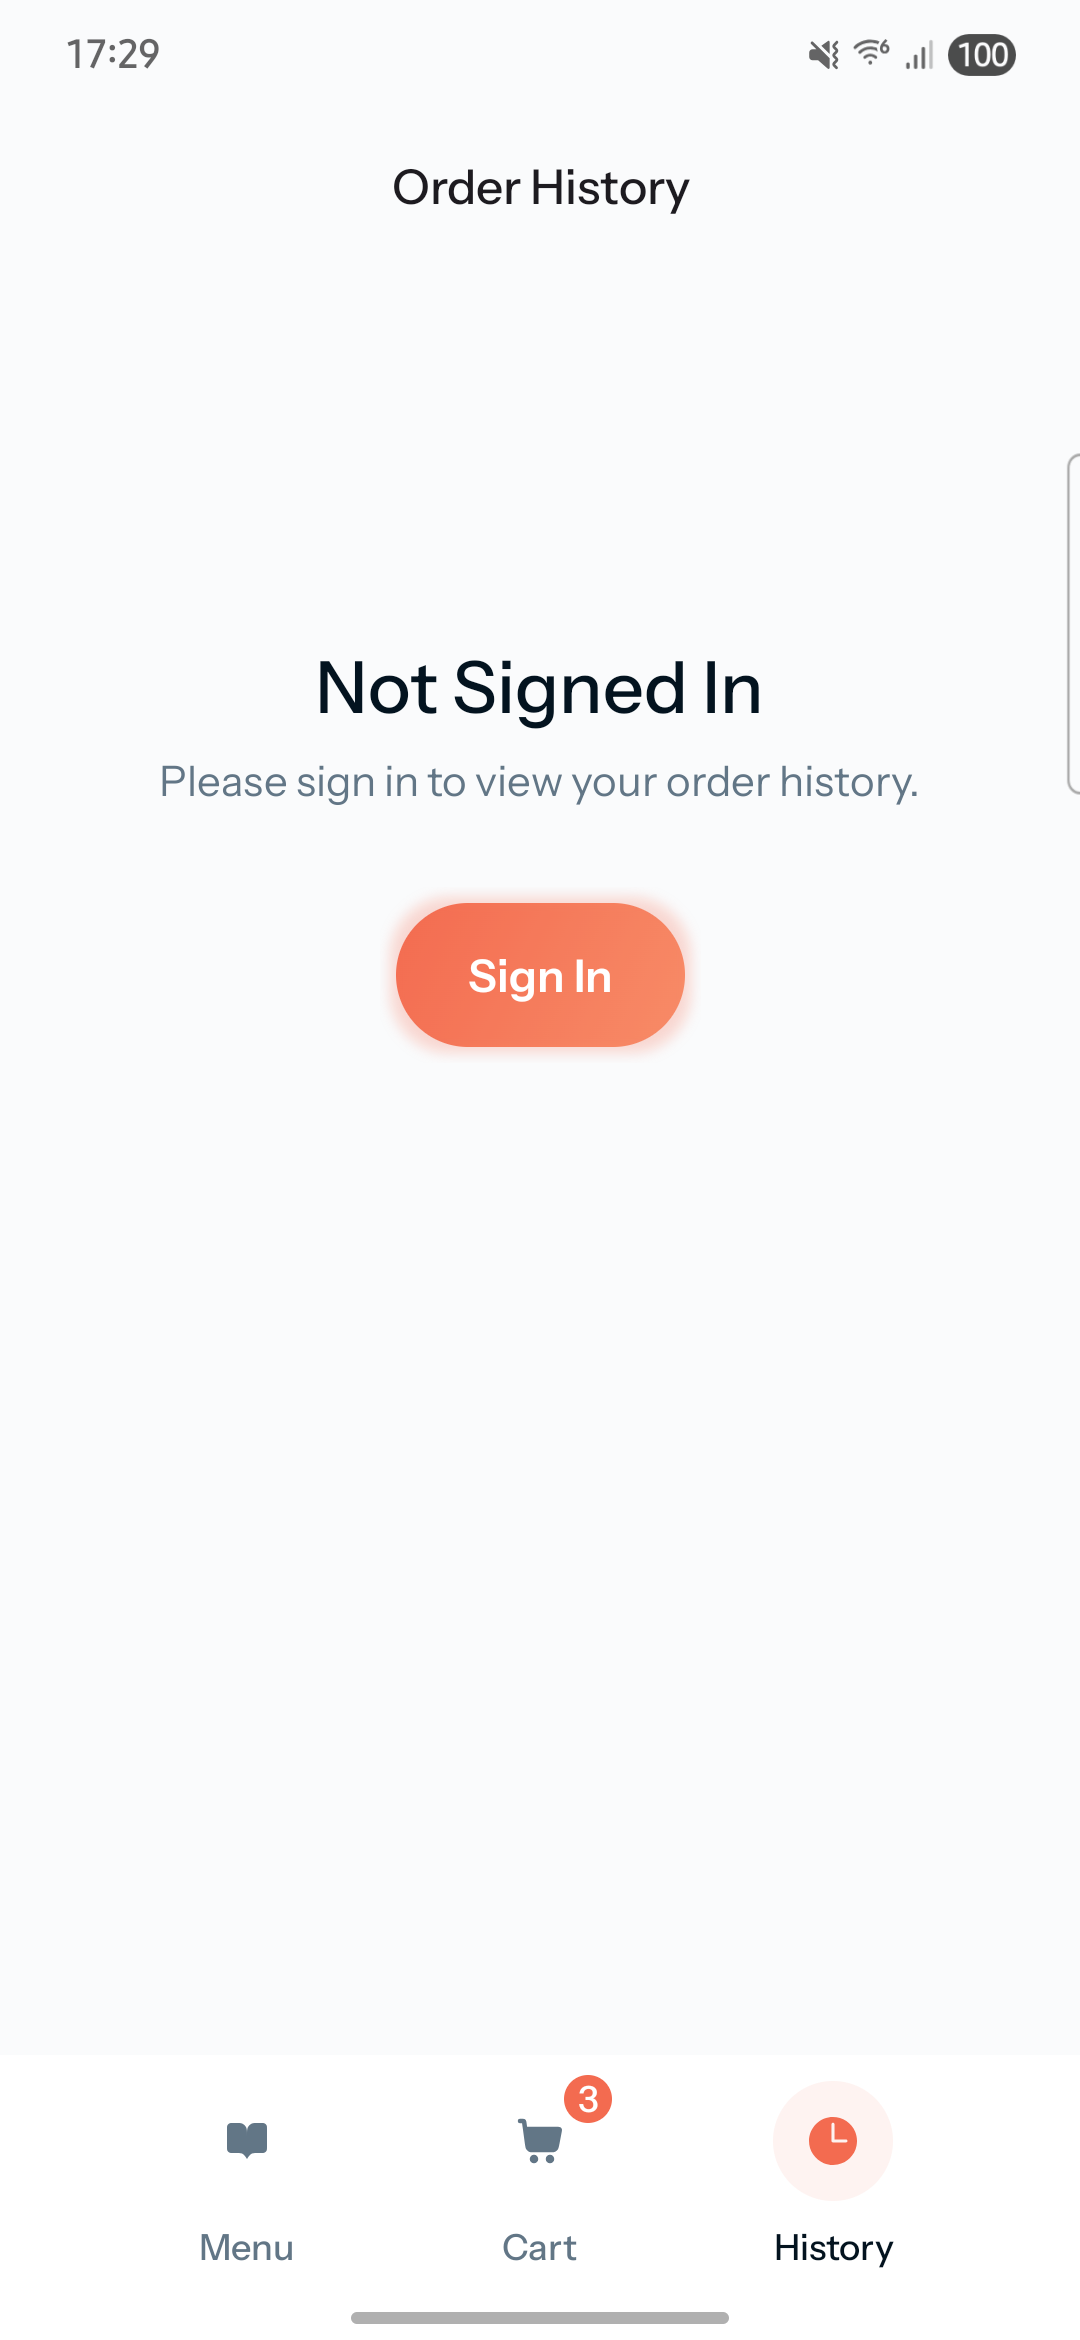
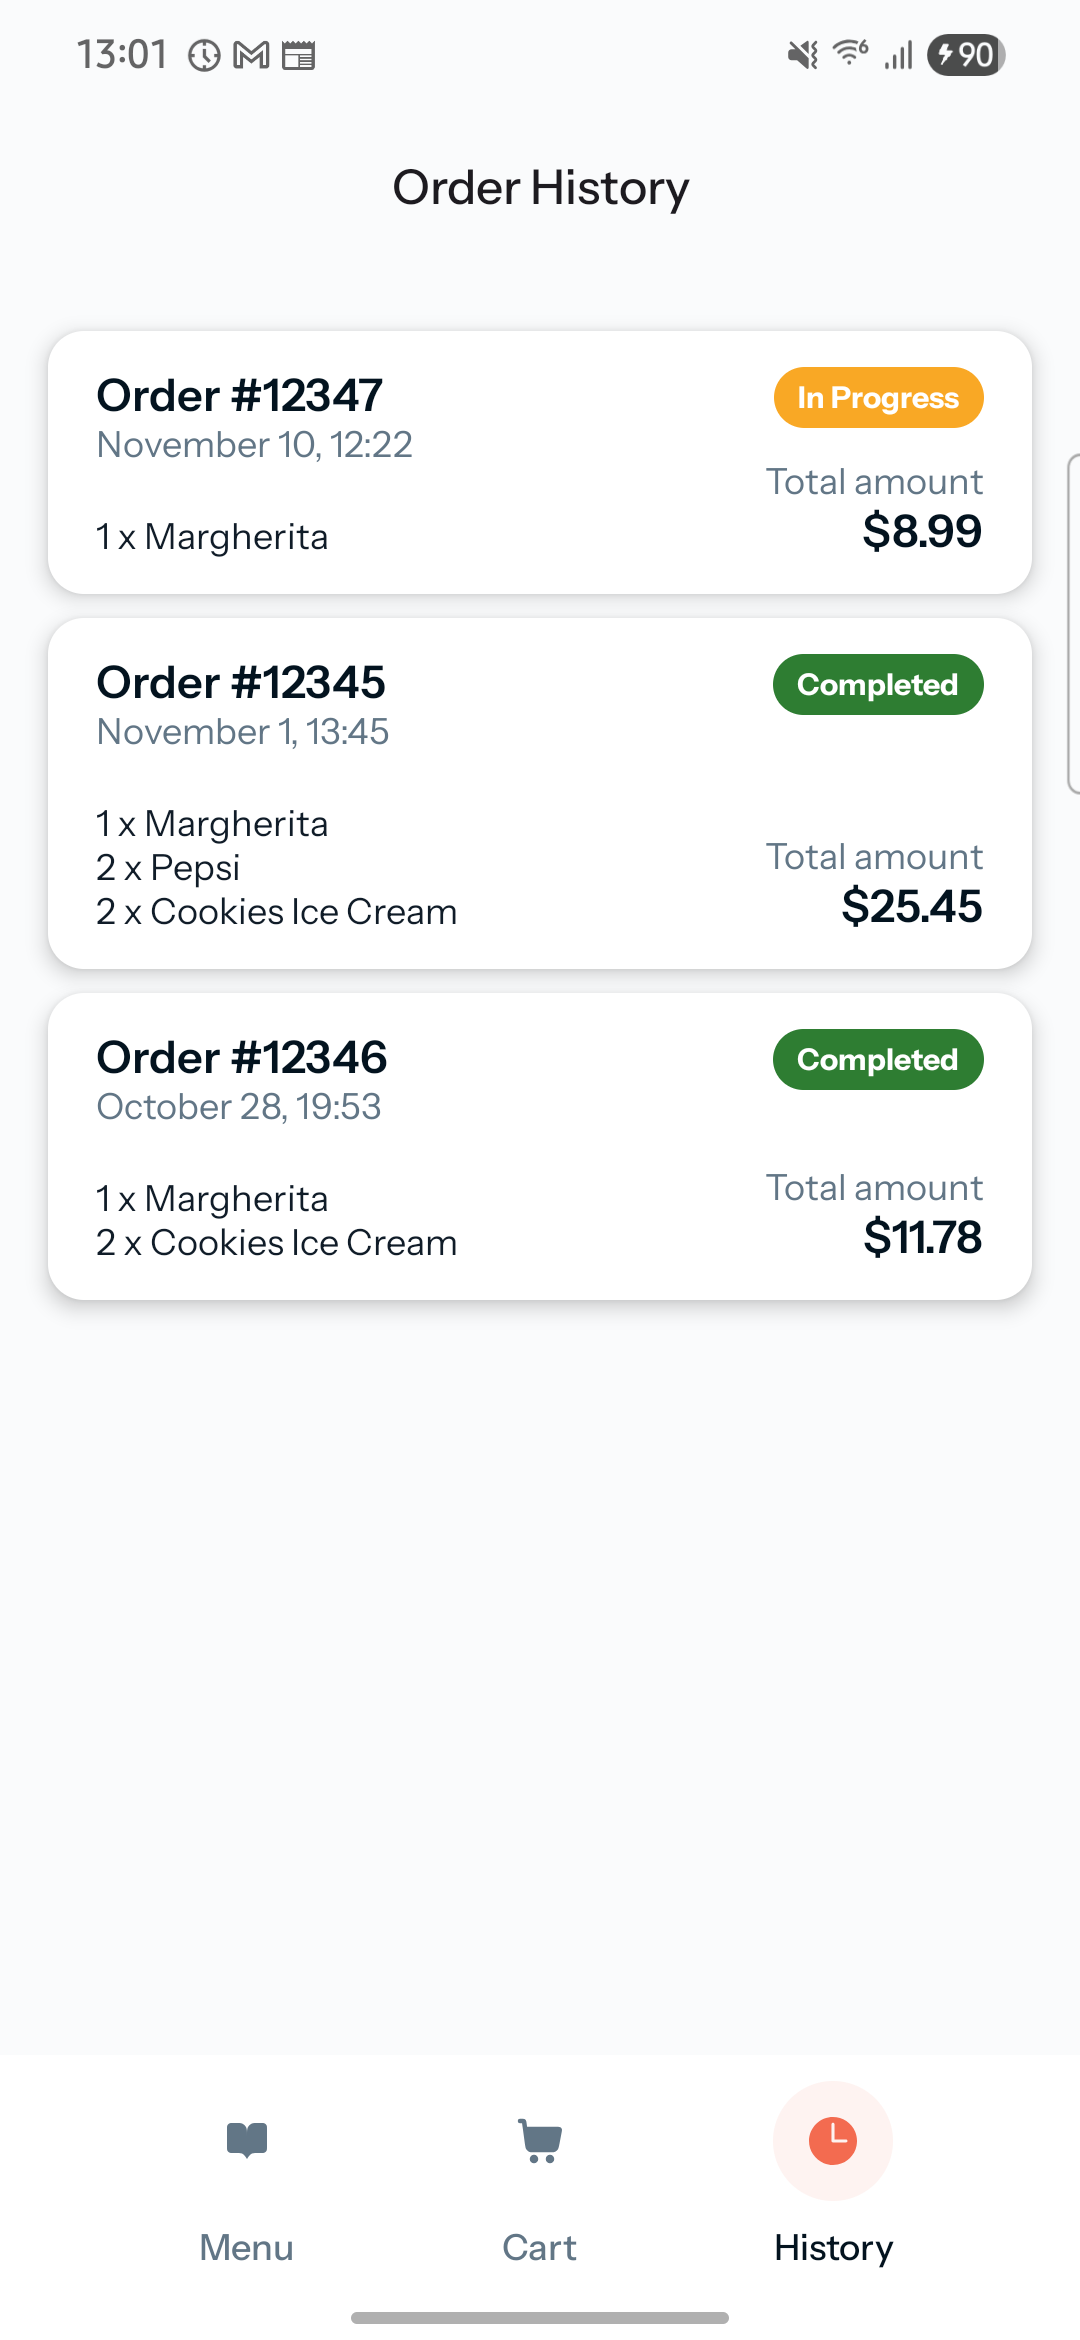
[M3-010] Update readme

diff --git a/Readme.md b/Readme.md
@@ -1,26 +1,30 @@
 <img src="assets/lazy_pizza_cover.png" style="width: 100%; height: auto;"/>
 
-**LazyPizza** is an online pizza delivery app built for the Mobile Dev Campus by [Phillip Lackner](https://pl-coding.com/campus) as part of the monthly challenge. This app is made for fun and to improve skills in collaboration by three community members [@extractive-mana-pulse](https://github.com/extractive-mana-pulse), [@galahseno](https://github.com/galahseno) and [@icdominguez](https://github.com/icdominguez)
+**LazyPizza** is an online pizza delivery app built for the Mobile Dev Campus
+by [Phillip Lackner](https://pl-coding.com/campus) as part of the monthly challenge. This app is
+made for fun and to improve skills in collaboration by three community
+members [@extractive-mana-pulse](https://github.com/extractive-mana-pulse), [@galahseno](https://github.com/galahseno)
+and [@icdominguez](https://github.com/icdominguez)
 
 ## Project Status
 
-This project is divided in 4 different milestones that are launched every fortnight. Was started being developed at 1st October. We are currently working on Milestone 3.
+This project is divided in 4 different milestones that are launched every fortnight. Was started
+being developed at 1st October. We are currently working on Milestone 3.
 
 ### 🚨 Latest Features ###
 
-- **Cart**
-  -  We implemented the model in firebase to store the cart items through out the app. Because of we don't have users logged in we stored the cart id in the device using data store. The model is the following
-  <img src="assets/cart_model.png" style="width: 100%; height: auto;"/>
-
-  - Navigation Rail to show the bottom navigation bar at the left in tablet devices.
-  - The user receives feedback confirming that the item is successfully added to the cart through a snackbar.
-  - The Cart icon in the bottom navigation bar instantly updates its badge to show the current number of items in the cart.
-  - If the user changes the product quantity on any product card (using the − 1 + selector), both the badge count and the cart data are updated dynamically.
-  - For pizzas, after tapping the Add to Cart button on the Product Details screen, the app returns the user to the main Menu screen so they can continue selecting other products.
-- **History**
-  -  For the moment shows a "Not Signed In" state. Sign in will be implemented in the  next milestone
-- **Consistent code styling with ktlint**
-  - We added ktlint support to ensure consistent code style throughout project. This helps keep the code clean and consistent among all team members.
+- **All Products Screen**
+  - Displays a new icon to login or logout.
+  - Log out only deletes cart from remote database (firebase).
+- **Login Screen**
+  - Displays a text field to type phone number.
+  - If number is correct, continue button is enabled and a telegram code will be sent to the phone
+    entered.
+  - Otp component displayed to enter the code previously sent.
+  - If the code is correct, the user will be logged in. If not, an error message will be displayed.
+  - Timer for request a new code after a minute.
+- **History Screen**
+  - Checks if user is logged in or not and if its logged displays a fake order list
 
 ## 🧑🏽💻 Technical implementation
 
@@ -33,7 +37,7 @@ This project is divided in 4 different milestones that are launched every fortni
 
 ## 🎥 Demo ##
 
-https://github.com/user-attachments/assets/8a7d2b22-e5b5-47b1-8c74-cb4713cd838b
+https://github.com/user-attachments/assets/17985058-5ab6-4322-8470-cbb9d9e5a368
 
 ## 📱 Screenshots ##
 
@@ -43,6 +47,15 @@ https://github.com/user-attachments/assets/8a7d2b22-e5b5-47b1-8c74-cb4713cd838b
 | Mobile                                                                           | Tablet                                                                            | 
 |----------------------------------------------------------------------------------|-----------------------------------------------------------------------------------|
 | <img src="assets/screenshots/all_products/all_products_mobile.png" width="600"/> | <img src="assets/screenshots/all_products/all_products_tablet.png" width="1200"/> |
+
+</details>
+
+<details>
+  <summary>Login</summary>
+
+| Mobile                                                             | Tablet                                                              | 
+|--------------------------------------------------------------------|---------------------------------------------------------------------|
+| <img src="assets/screenshots/login/login_mobile.png" width="600"/> | <img src="assets/screenshots/login/login_tablet.png" width="1200"/> |
 
 </details>
 
@@ -70,7 +83,21 @@ https://github.com/user-attachments/assets/8a7d2b22-e5b5-47b1-8c74-cb4713cd838b
 | Mobile                                                                  | Tablet                                                                   |
 |-------------------------------------------------------------------------|--------------------------------------------------------------------------|
 | <img src="assets/screenshots/history/history_mobile.png" width="600" /> | <img src="assets/screenshots/history/history_tablet.png" width="1200" /> |
+
 </details>
+
+## 🛠 Setup
+
+For the otp feature we used the telegram GATEWAY api. You can find documentation here: https://core.telegram.org/gateway.
+
+To test this project you need to add this two variables to your local.properties:
+
+```
+telegram_base_url="https://gatewayapi.telegram.org"
+telegram_api_token="your_token"
+```
+
+Just change telegram_api_token with your token and enjoy 🙌
 
 ## 🪪 License
 
@@ -86,5 +113,8 @@ This project is an open-source and free to use. Feel free to fork and upload you
 - Responsive design.
 - Ktlint for consistent code style.
 - Cooperating between co-workers.
+- Phone numbers validation.
+- Ktor Client.
+- Telegram GATEWAY api integration to send code to the users and verify them.
 
 ---
